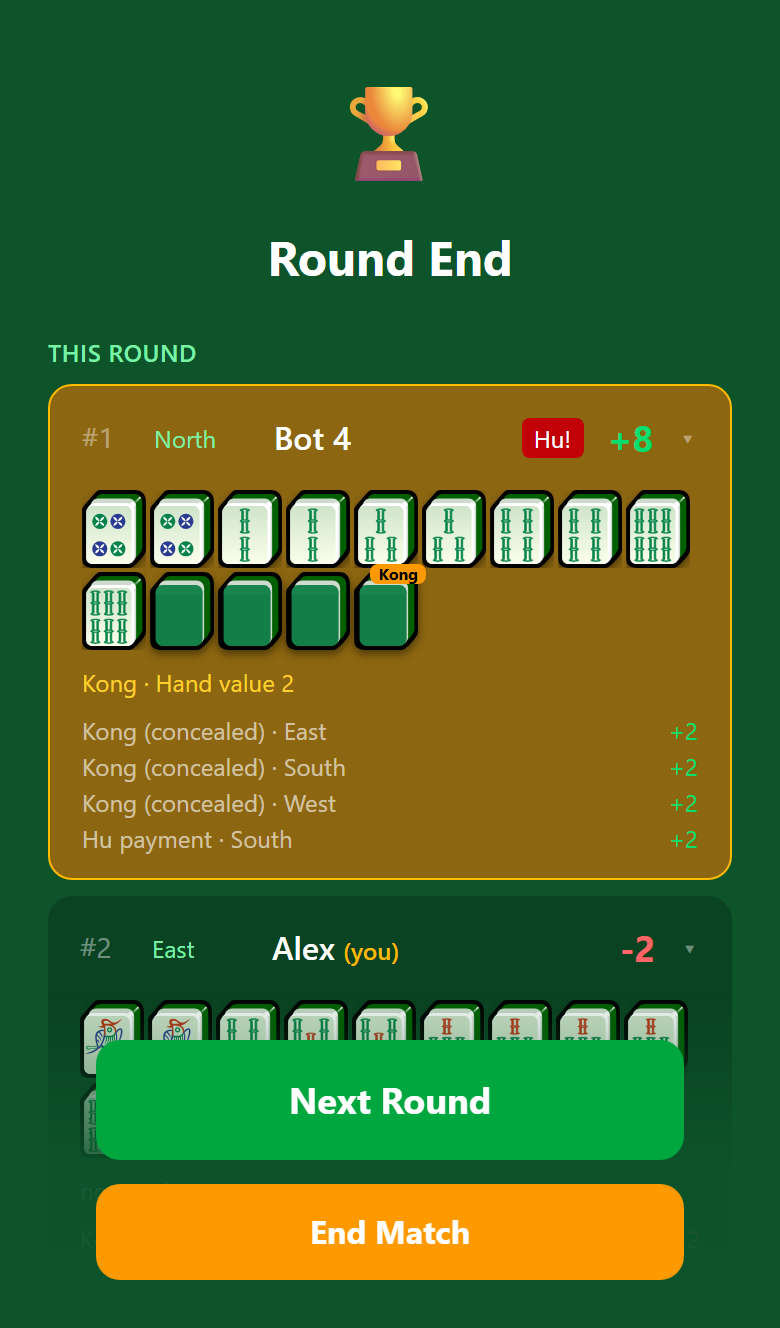
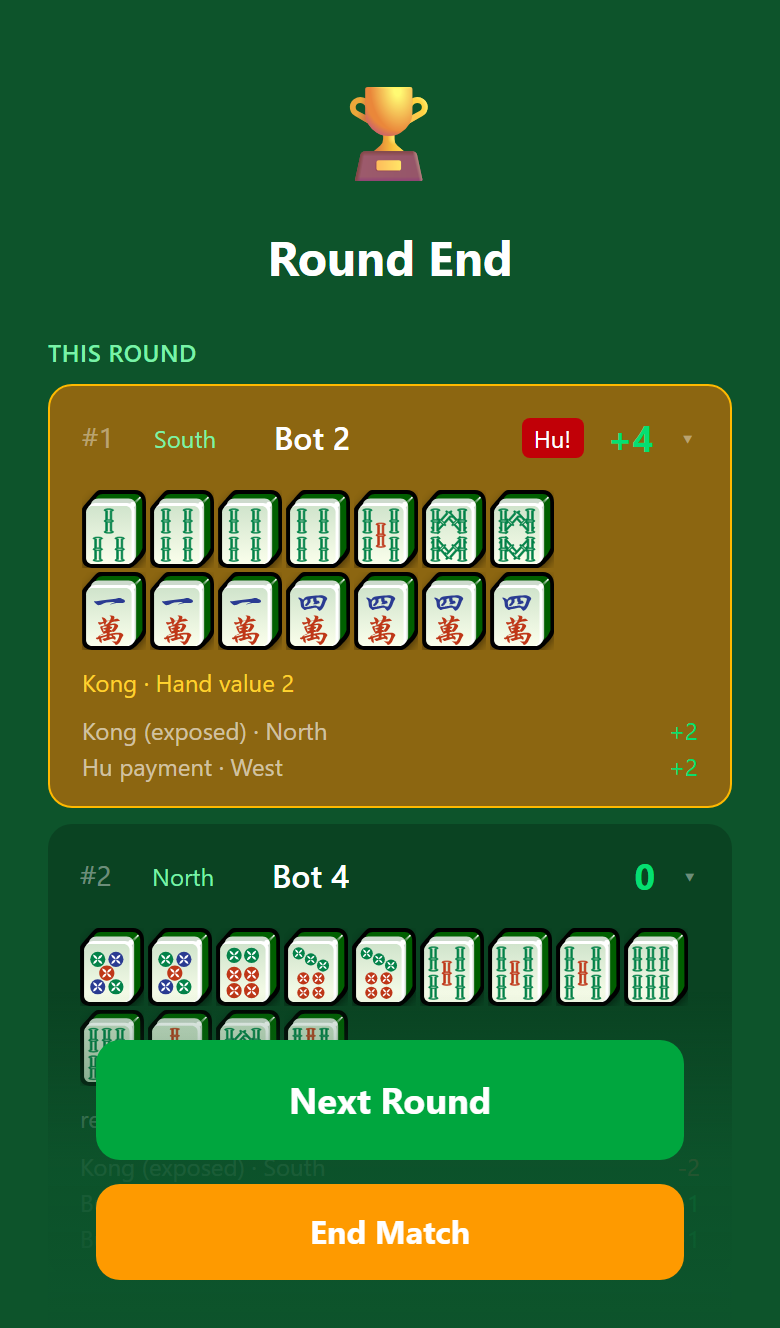
fix(client): reveal concealed kongs at round end, and remember a submitted declaration
Two defects from earlier in this push, found by checking whether the
front-end was actually finished rather than assuming it.

The round-end hand reveal never revealed a concealed kong. buildRoundResult
sends the real Meld[], so the tile was on the wire, but MeldDisplay branched
on subtype and drew four backs either way — a hand won with a concealed kong
showed ten faces and four blanks. PublicMeld already encodes the distinction:
tile: null is the live redacted case, the real tile is sent wherever it is
revealed. Branch on the tile. The decision is extracted as meldRender so the
no-DOM client suite can test it; the test fails against the old branch.

Rejoining mid-huan or mid-void re-showed the picker. F2 made this reachable —
before it a refresh lost the seat outright. Legal actions are empty outside
the play phase, so the view carried no signal and the only record was
component state that dies on remount; the player re-picked and ate an
already_submitted rejection. The view now carries hasSubmittedHuan and
hasDeclaredVoid, from the server, which is the only thing that knows.

diff --git a/packages/client/src/components/MeldDisplay.tsx b/packages/client/src/components/MeldDisplay.tsx
@@ -14,33 +14,55 @@ function meldTileIds(meld: Meld): TileId[] {
   return Array.from({ length: count }, (_, i) => (base + i) as TileId);
 }
 
-// Views carry PublicMeld: a concealed kong arrives with tile: null (its rank is
-// secret until round end — A27), and renders as four backs either way.
+/**
+ * A group of tiles with a corner badge naming it. Four bare tiles are hard to
+ * tell from a fragment of a hand at a glance, and at round end melds render
+ * right beside the hand they belong to. (F23)
+ */
+function BadgedGroup({ label, children }: { label: string; children: React.ReactNode }) {
+  return (
+    <div className="relative flex gap-0.5">
+      {children}
+      <span className="absolute -top-1 -right-1 px-1 rounded bg-amber-500 text-black text-[8px] font-bold leading-tight">
+        {label}
+      </span>
+    </div>
+  );
+}
+
+/**
+ * How a meld should be drawn.
+ *
+ * `ids: null` means draw four backs — the only case is a concealed kong while
+ * the round is live, whose rank is secret and arrives as `tile: null` (A27).
+ * Once the round settles the real tile is sent, in the round-end views and in
+ * RoundResult, and it must be shown: keying this off `subtype === 'concealed'`
+ * instead of off the tile drew backs in both cases, so the round-end hand
+ * reveal showed four blanks with the tile to reveal sitting in the payload.
+ *
+ * Exported so it can be tested — the client suite runs in Node with no DOM.
+ */
+export function meldRender(meld: PublicMeld): { ids: TileId[] | null; badged: boolean } {
+  if (meld.kind === 'kong' && meld.tile === null) return { ids: null, badged: true };
+  // A revealed concealed kong keeps the badge: it is a declared group rather
+  // than four loose tiles, which reads even less clearly once the faces show
+  // next to a hand.
+  const badged = meld.kind === 'kong' && meld.subtype === 'concealed';
+  return { ids: meldTileIds(meld), badged };
+}
+
 export function MeldDisplay({ meld }: { meld: PublicMeld }) {
   const t = useT();
+  const { ids, badged } = meldRender(meld);
 
-  if (meld.kind === 'kong' && meld.subtype === 'concealed') {
-    // Four bare backs were indistinguishable from a fragment of a concealed
-    // hand at a glance, so the badge says what this group is. (F23)
-    return (
-      <div className="relative flex gap-0.5">
-        <TileBack size="sm" />
-        <TileBack size="sm" />
-        <TileBack size="sm" />
-        <TileBack size="sm" />
-        <span className="absolute -top-1 -right-1 px-1 rounded bg-amber-500 text-black text-[8px] font-bold leading-tight">
-          {t('claim.kong')}
-        </span>
-      </div>
-    );
-  }
+  const tiles =
+    ids === null
+      ? Array.from({ length: 4 }, (_, i) => <TileBack key={i} size="sm" />)
+      : ids.map(id => <Tile key={id} id={id} size="sm" />);
 
-  const ids = meldTileIds(meld);
-  return (
-    <div className="flex gap-0.5">
-      {ids.map(id => (
-        <Tile key={id} id={id} size="sm" />
-      ))}
-    </div>
+  return badged ? (
+    <BadgedGroup label={t('claim.kong')}>{tiles}</BadgedGroup>
+  ) : (
+    <div className="flex gap-0.5">{tiles}</div>
   );
 }

diff --git a/packages/client/tests/meld-render.test.ts b/packages/client/tests/meld-render.test.ts
@@ -1,0 +1,55 @@
+import type { PublicMeld, Tile } from '@sichuan-mahjong/engine';
+import { describe, expect, it } from 'vitest';
+import { meldRender } from '../src/components/MeldDisplay.js';
+
+const t = (suit: 'man' | 'pin' | 'sou', rank: number) => ({ suit, rank }) as Tile;
+
+describe('meld rendering', () => {
+  it('draws backs for a concealed kong while its rank is still secret', () => {
+    // Live rounds project it with tile: null (A27) — there is nothing to show.
+    const redacted: PublicMeld = {
+      kind: 'kong',
+      subtype: 'concealed',
+      tile: null,
+      claimedFrom: null,
+      turnDeclared: 4,
+    };
+    expect(meldRender(redacted)).toEqual({ ids: null, badged: true });
+  });
+
+  it('reveals a concealed kong once the round has sent its tile', () => {
+    // The regression this guards: keying off subtype drew backs here too, so
+    // the round-end hand reveal showed four blanks with the tile in hand.
+    const revealed: PublicMeld = {
+      kind: 'kong',
+      subtype: 'concealed',
+      tile: t('man', 3),
+      claimedFrom: null,
+      turnDeclared: 4,
+    };
+    const { ids, badged } = meldRender(revealed);
+    expect(ids).toHaveLength(4);
+    expect(ids?.every(id => typeof id === 'number')).toBe(true);
+    // Still badged: it is a declared group, not four loose tiles beside a hand.
+    expect(badged).toBe(true);
+  });
+
+  it('draws other melds face up and unbadged', () => {
+    const exposedKong: PublicMeld = {
+      kind: 'kong',
+      subtype: 'exposed',
+      tile: t('pin', 5),
+      claimedFrom: 2,
+      turnDeclared: 7,
+    };
+    const pung: PublicMeld = { kind: 'pung', tile: t('sou', 9), concealed: false, claimedFrom: 1 };
+    const chow: PublicMeld = { kind: 'chow', tiles: [t('man', 1), t('man', 2), t('man', 3)] };
+
+    expect(meldRender(exposedKong)).toMatchObject({ badged: false });
+    expect(meldRender(exposedKong).ids).toHaveLength(4);
+    expect(meldRender(pung)).toMatchObject({ badged: false });
+    expect(meldRender(pung).ids).toHaveLength(3);
+    expect(meldRender(chow)).toMatchObject({ badged: false });
+    expect(meldRender(chow).ids).toHaveLength(3);
+  });
+});

diff --git a/packages/engine/src/views.ts b/packages/engine/src/views.ts
@@ -47,6 +47,15 @@ export type PlayerView = {
     furiten: PlayerState['furiten'];
     /** Your own face-down first discard — you chose it, so you may see it. (A37) */
     pendingFirstDiscardTile: TileId | null;
+    /**
+     * Whether this seat has already submitted its huan selection / void
+     * declaration. The client used to track this only in component state, which
+     * a reconnect or a refresh-and-rejoin throws away — the player was then
+     * shown the selection UI again and could only discover the truth by
+     * resubmitting and being rejected. The server is the only thing that knows.
+     */
+    hasSubmittedHuan: boolean;
+    hasDeclaredVoid: boolean;
   };
   others: [PublicPlayer, PublicPlayer, PublicPlayer];
   wallRemaining: number;
@@ -270,6 +279,8 @@ export function projectView(state: GameState, seat: Seat): PlayerView {
       voidedSuit: you.voidedSuit,
       furiten: you.furiten,
       pendingFirstDiscardTile: you.pendingFirstDiscard,
+      hasSubmittedHuan: state.pendingHuan[seat] != null,
+      hasDeclaredVoid: state.pendingVoid[seat] != null,
     },
     others: otherSeats.map(s => toPublicPlayer(state.players[s]!, reveal)) as [
       PublicPlayer,

diff --git a/packages/engine/tests/ledger.test.ts b/packages/engine/tests/ledger.test.ts
@@ -116,3 +116,28 @@ describe('HuRecord fans', () => {
     }
   });
 });
+
+// ─── View: own submitted state ───────────────────────────────────────────────
+// A reconnecting or refreshed client has no memory of having submitted; the
+// server is the only thing that knows, so the view has to say.
+describe('own huan/void submitted state in the view', () => {
+  it('flips once the seat has acted, and only for that seat', async () => {
+    const { projectView } = await import('../src/views.js');
+    const s = fresh();
+
+    expect(projectView(s, 0).you.hasSubmittedHuan).toBe(false);
+    expect(projectView(s, 1).you.hasSubmittedHuan).toBe(false);
+
+    const hand = s.players[0]!.hand;
+    const r = applyAction(s, {
+      t: 'huanSelect',
+      seat: 0,
+      tiles: [hand[0]!, hand[1]!, hand[2]!],
+    });
+    expect(r.ok, 'huanSelect on a freshly dealt game should be legal').toBe(true);
+    if (!r.ok) return;
+
+    expect(projectView(r.state, 0).you.hasSubmittedHuan).toBe(true);
+    expect(projectView(r.state, 1).you.hasSubmittedHuan).toBe(false);
+  });
+});

diff --git a/packages/client/src/screens/Game.tsx b/packages/client/src/screens/Game.tsx
@@ -52,7 +52,10 @@ function HuanPhase({ view }: { view: PlayerView }) {
     setSubmitted(true);
   }
 
-  if (submitted) {
+  // The local flag gives instant feedback; the view is what survives a reconnect
+  // or a refresh-and-rejoin, which would otherwise redisplay the picker to a
+  // player who has already chosen.
+  if (submitted || view.you.hasSubmittedHuan) {
     return (
       <div className="min-h-dvh board-felt flex flex-col items-center justify-center gap-4 text-white p-6">
         <p className="text-xl animate-pulse">{t('common.waitingPlayers')}</p>
@@ -131,7 +134,8 @@ function VoidDeclarePhase({ view }: { view: PlayerView }) {
     setSubmitted(true);
   }
 
-  if (submitted) {
+  // As in HuanPhase: the view is the source of truth across a reconnect.
+  if (submitted || view.you.hasDeclaredVoid) {
     return (
       <div className="min-h-dvh board-felt flex flex-col items-center justify-center gap-4 text-white p-6">
         <p className="text-xl animate-pulse">{t('common.waitingPlayers')}</p>

diff --git a/ARCHITECTURE.md b/ARCHITECTURE.md
@@ -643,6 +643,8 @@ Both halves are per-viewer redacted before send: melds project as `PublicMeld` (
 
 `roundEnd` also goes to spectators — on broadcast and on a late join, mirroring the A9 player path — so the store keeps a spectating client on its own screen rather than navigating it to the player round-end screen. `RoundResult.players[]` carries each seat's revealed `hand` and `melds`, its `isReady` state, and its slice of the round's payment `ledger`; it is only ever built once the round has ended, which is what keeps the reveal out of `PlayerView` and out of the redaction rules above.
 
+`PlayerView.you` also carries `hasSubmittedHuan` / `hasDeclaredVoid`. A client that reconnects or refreshes has no memory of having acted, and legal actions are empty outside the play phase, so without these the declaration screens re-showed the picker to a player who had already chosen.
+
 `RoundResult` carries a `roundIndex`. A client that reconnects at round end is handed that round's result again (§6.5), so anything cumulative — the client's match-score totals — must be keyed on it rather than incremented on arrival (A39).
 
 ### 6.5 Reconnection
@@ -713,7 +715,7 @@ App-root overlays, mounted alongside whichever screen is active:
 
 ### 8.2 Tile rendering
 
-- `<Tile>` renders an SVG face from `public/tiles/{suit}-{rank}.svg`; `<TileBack>` renders `back.svg`. (Unicode mahjong glyphs were the original plan, but the SVGs carry their own bevelled 3D tile, so the container is a transparent holder — see the note atop `index.css`.)
+- `<Tile>` renders an SVG face from `public/tiles/{suit}-{rank}.svg`; `<TileBack>` renders `back.svg`. `MeldDisplay` decides between the two via `meldRender`, which branches on whether the meld carries a tile — a concealed kong is `tile: null` only while the round is live (A27), and must be drawn face-up once the round-end payload sends its real tile. (Unicode mahjong glyphs were the original plan, but the SVGs carry their own bevelled 3D tile, so the container is a transparent holder — see the note atop `index.css`.)
 - Both take a `fill` prop: the hand and the opponent-across strip size their tiles by flexing, so a 14-tile row fits any phone (F4).
 - Long-press tile: 2× preview modal.
 - Accessibility: clickable tiles are `role="button"` with `tabIndex`, Enter/Space and a localized `aria-label` ("3 of Characters"); the rest are `role="img"` with the same name. The `<img alt>` stays the internal `man-3` id — e2e selectors match on it and the wrapper's label is what gets announced. (F16)

diff --git a/TODO.md b/TODO.md
@@ -1,5 +1,35 @@
 # TODO
 
+## ✅ Two front-end defects found by sweep (2026-08-01)
+
+Both surfaced by asking "are the front-end items actually finished?" and
+checking rather than answering from memory. Both were introduced by work
+earlier in the same push.
+
+- [x] **The round-end reveal never revealed a concealed kong.** `buildRoundResult`
+  sends the real `Meld[]`, so the tile was on the wire, but `MeldDisplay`
+  branched on `kind === 'kong' && subtype === 'concealed'` and drew four backs
+  unconditionally. A hand won with a concealed kong showed ten faces and four
+  blanks, and the fan list said "Kong" without saying which — which defeats the
+  point of the reveal. `PublicMeld` already encodes the distinction: `tile: null`
+  is the live redacted case (A27) and the real tile is sent everywhere it is
+  revealed, so the branch is now on the tile. The decision is extracted as
+  `meldRender` and tested, since the client suite has no DOM; the test fails
+  against the old branch.
+- [x] **Rejoining mid-huan or mid-void re-showed the picker.** F2 made this
+  reachable — before it, a refresh lost the seat entirely. `computeLegalActions`
+  returns `[]` outside the play phase, so `PlayerView` carried no signal, and the
+  only record was component state that dies on remount. The player would re-pick
+  and eat an `already_submitted` rejection (visible since F1, but the wrong
+  message). `you.hasSubmittedHuan` / `you.hasDeclaredVoid` now come from the
+  server, which is the only thing that knows.
+
+**Left deliberately:** several entrance animations still fade in from
+`opacity: 0` (last-discard pop in Game and Spectate, and the transient overlays).
+They deviate from the rule F11 established, but F11's failure was only ever
+observed in fullPage screenshot capture, and a fade is the right treatment for
+something that lives 3.5 seconds. Fixing them would be churn.
+
 ## ✅ Mobile viewport remediation — R1–R5 (2026-08-01)
 
 Design input came back as recommendations R1–R5 in
